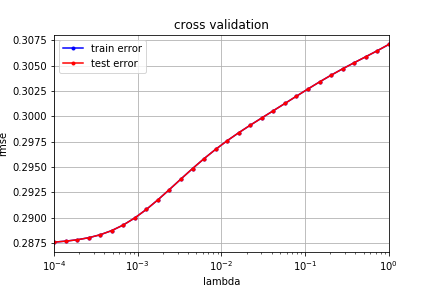
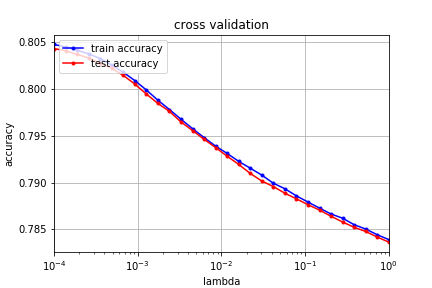
Added cross-validation

Changed region(s): [[0.0, 0.125, 0.9028, 0.875], [0.0301, 0.125, 0.2407, 0.2188], [0.0301, 0.2188, 0.1204, 0.25]]

diff --git a/scripts/plots.py b/scripts/plots.py
@@ -6,10 +6,10 @@ import matplotlib.pyplot as plt
 
 def cross_validation_visualization(lambds, mse_tr, mse_te):
     """visualization the curves of mse_tr and mse_te."""
-    plt.semilogx(lambds, mse_tr, marker=".", color='b', label='train error')
-    plt.semilogx(lambds, mse_te, marker=".", color='r', label='test error')
+    plt.semilogx(lambds, mse_tr, marker=".", color='b', label='train accuracy')
+    plt.semilogx(lambds, mse_te, marker=".", color='r', label='test accuracy')
     plt.xlabel("lambda")
-    plt.ylabel("rmse")
+    plt.ylabel("accuracy")
     plt.xlim(1e-4, 1)
     plt.title("cross validation")
     plt.legend(loc=2)
